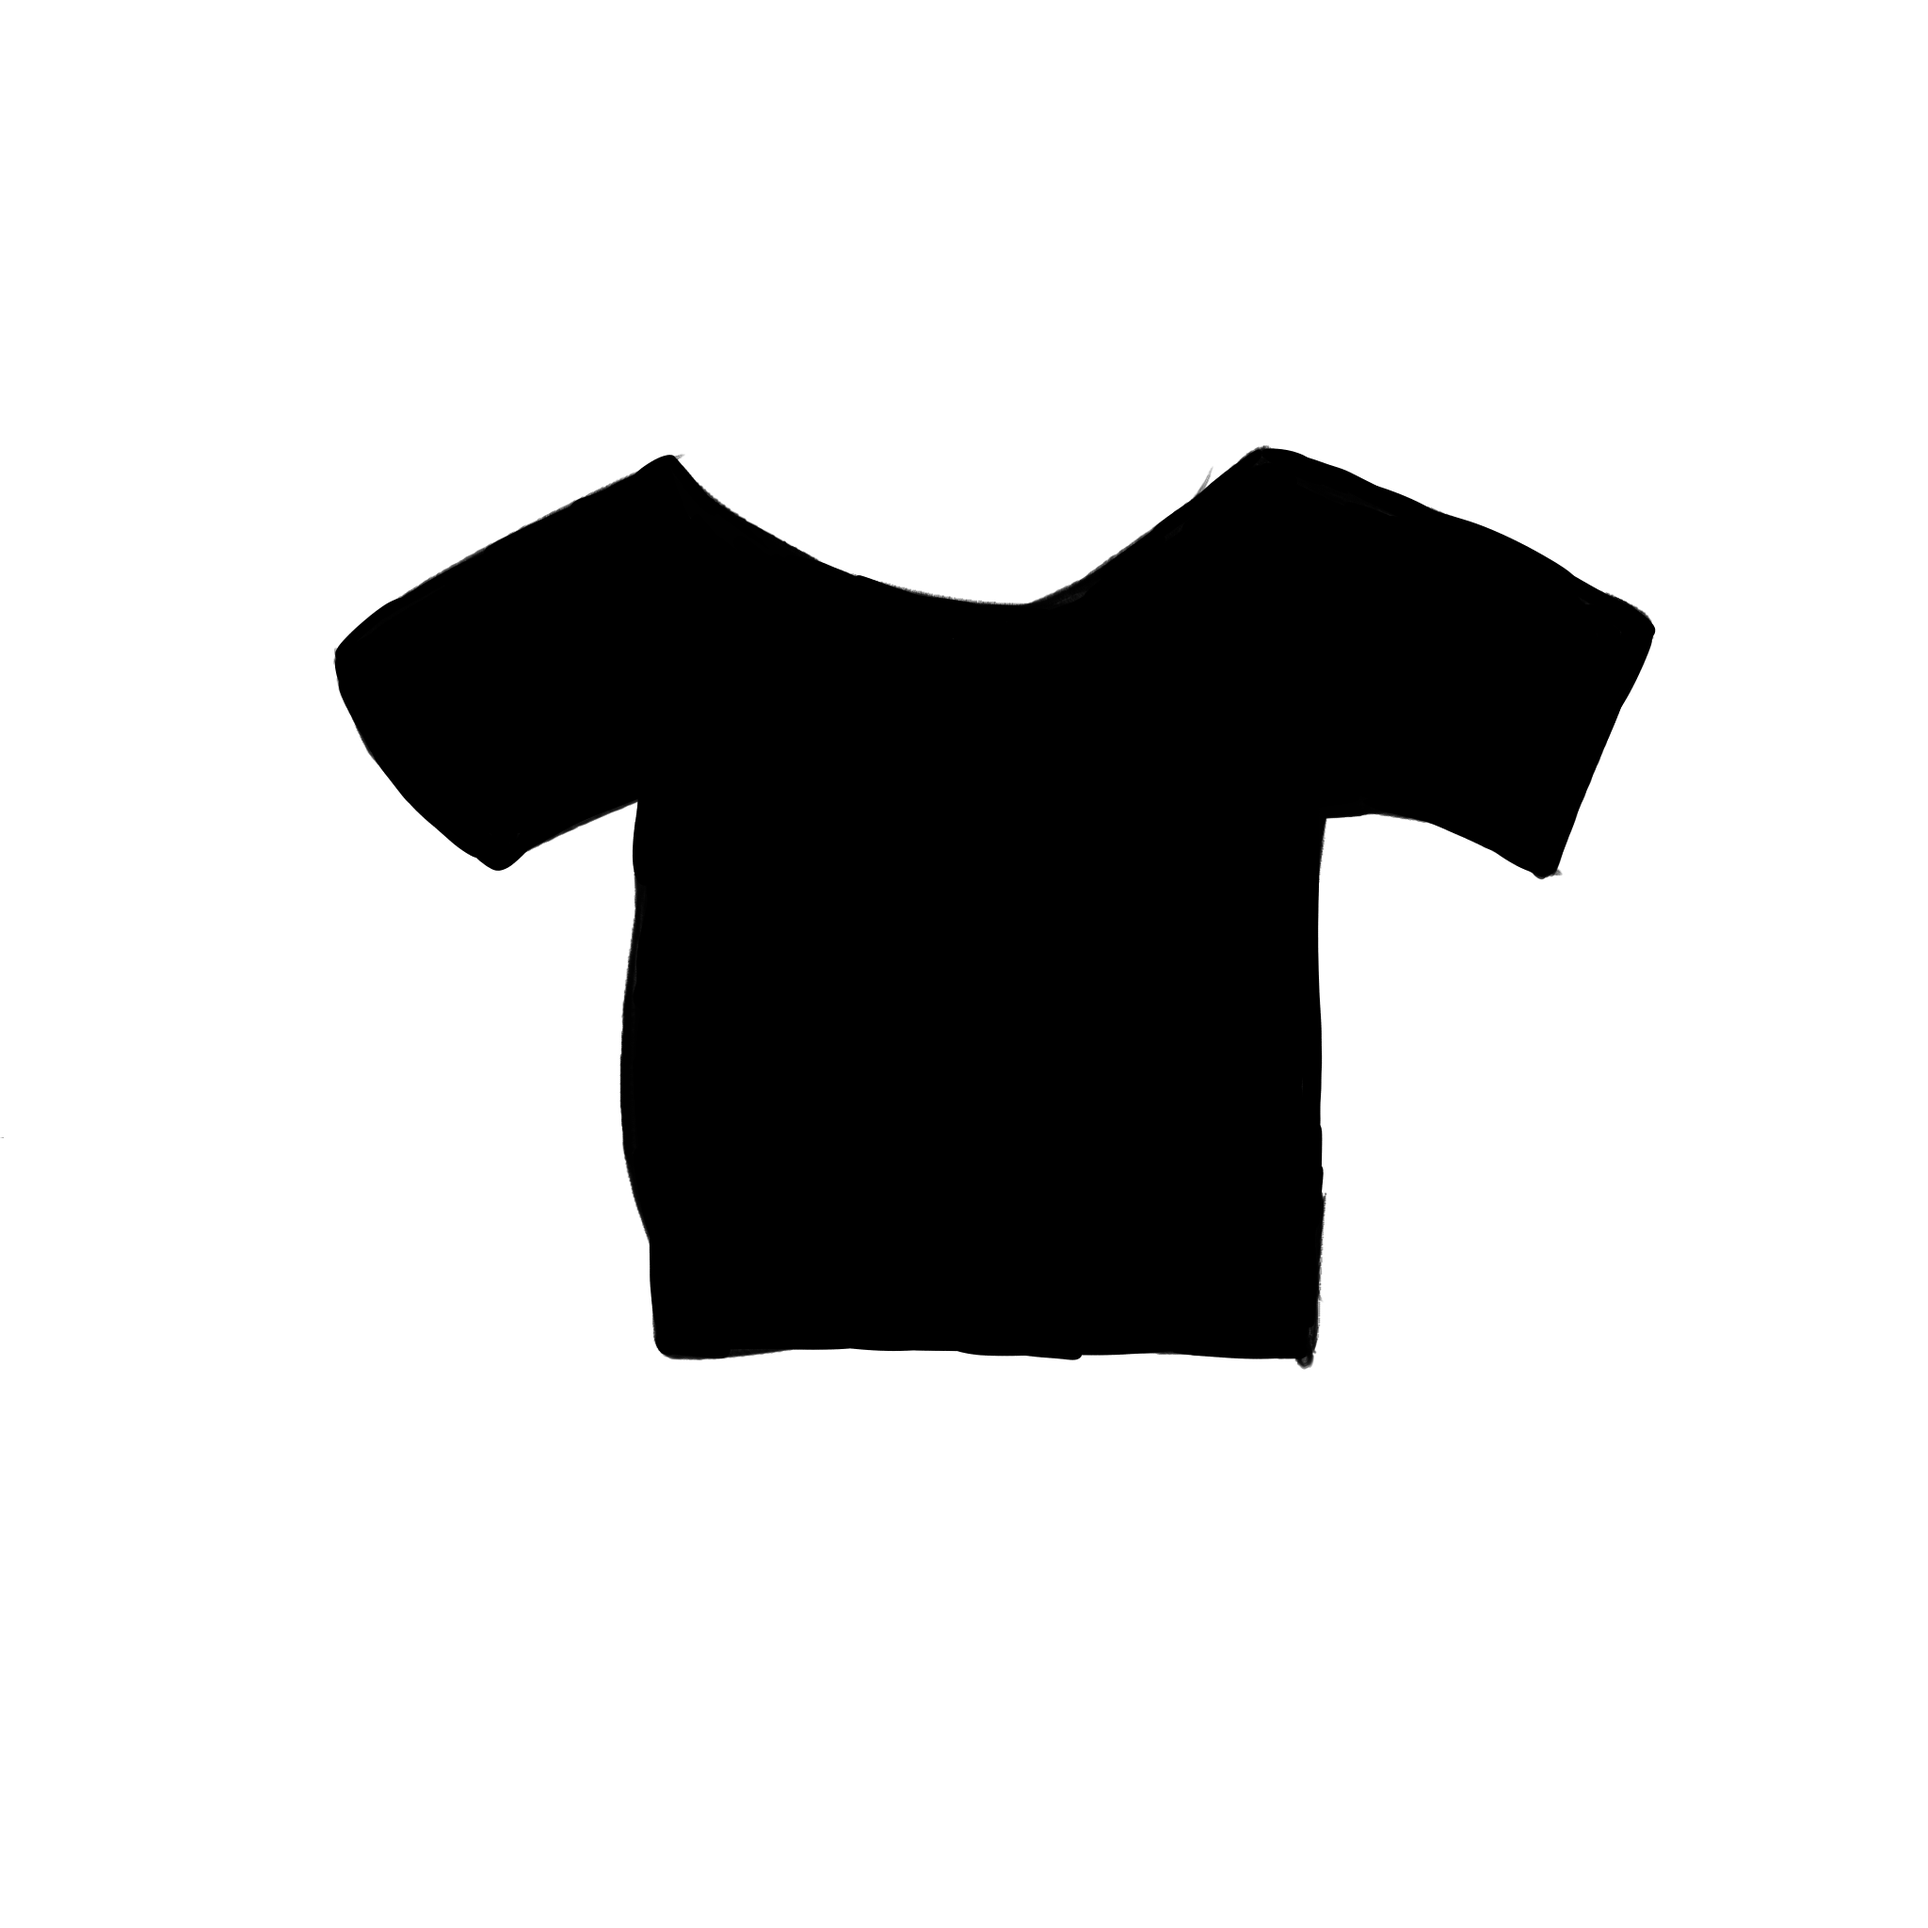
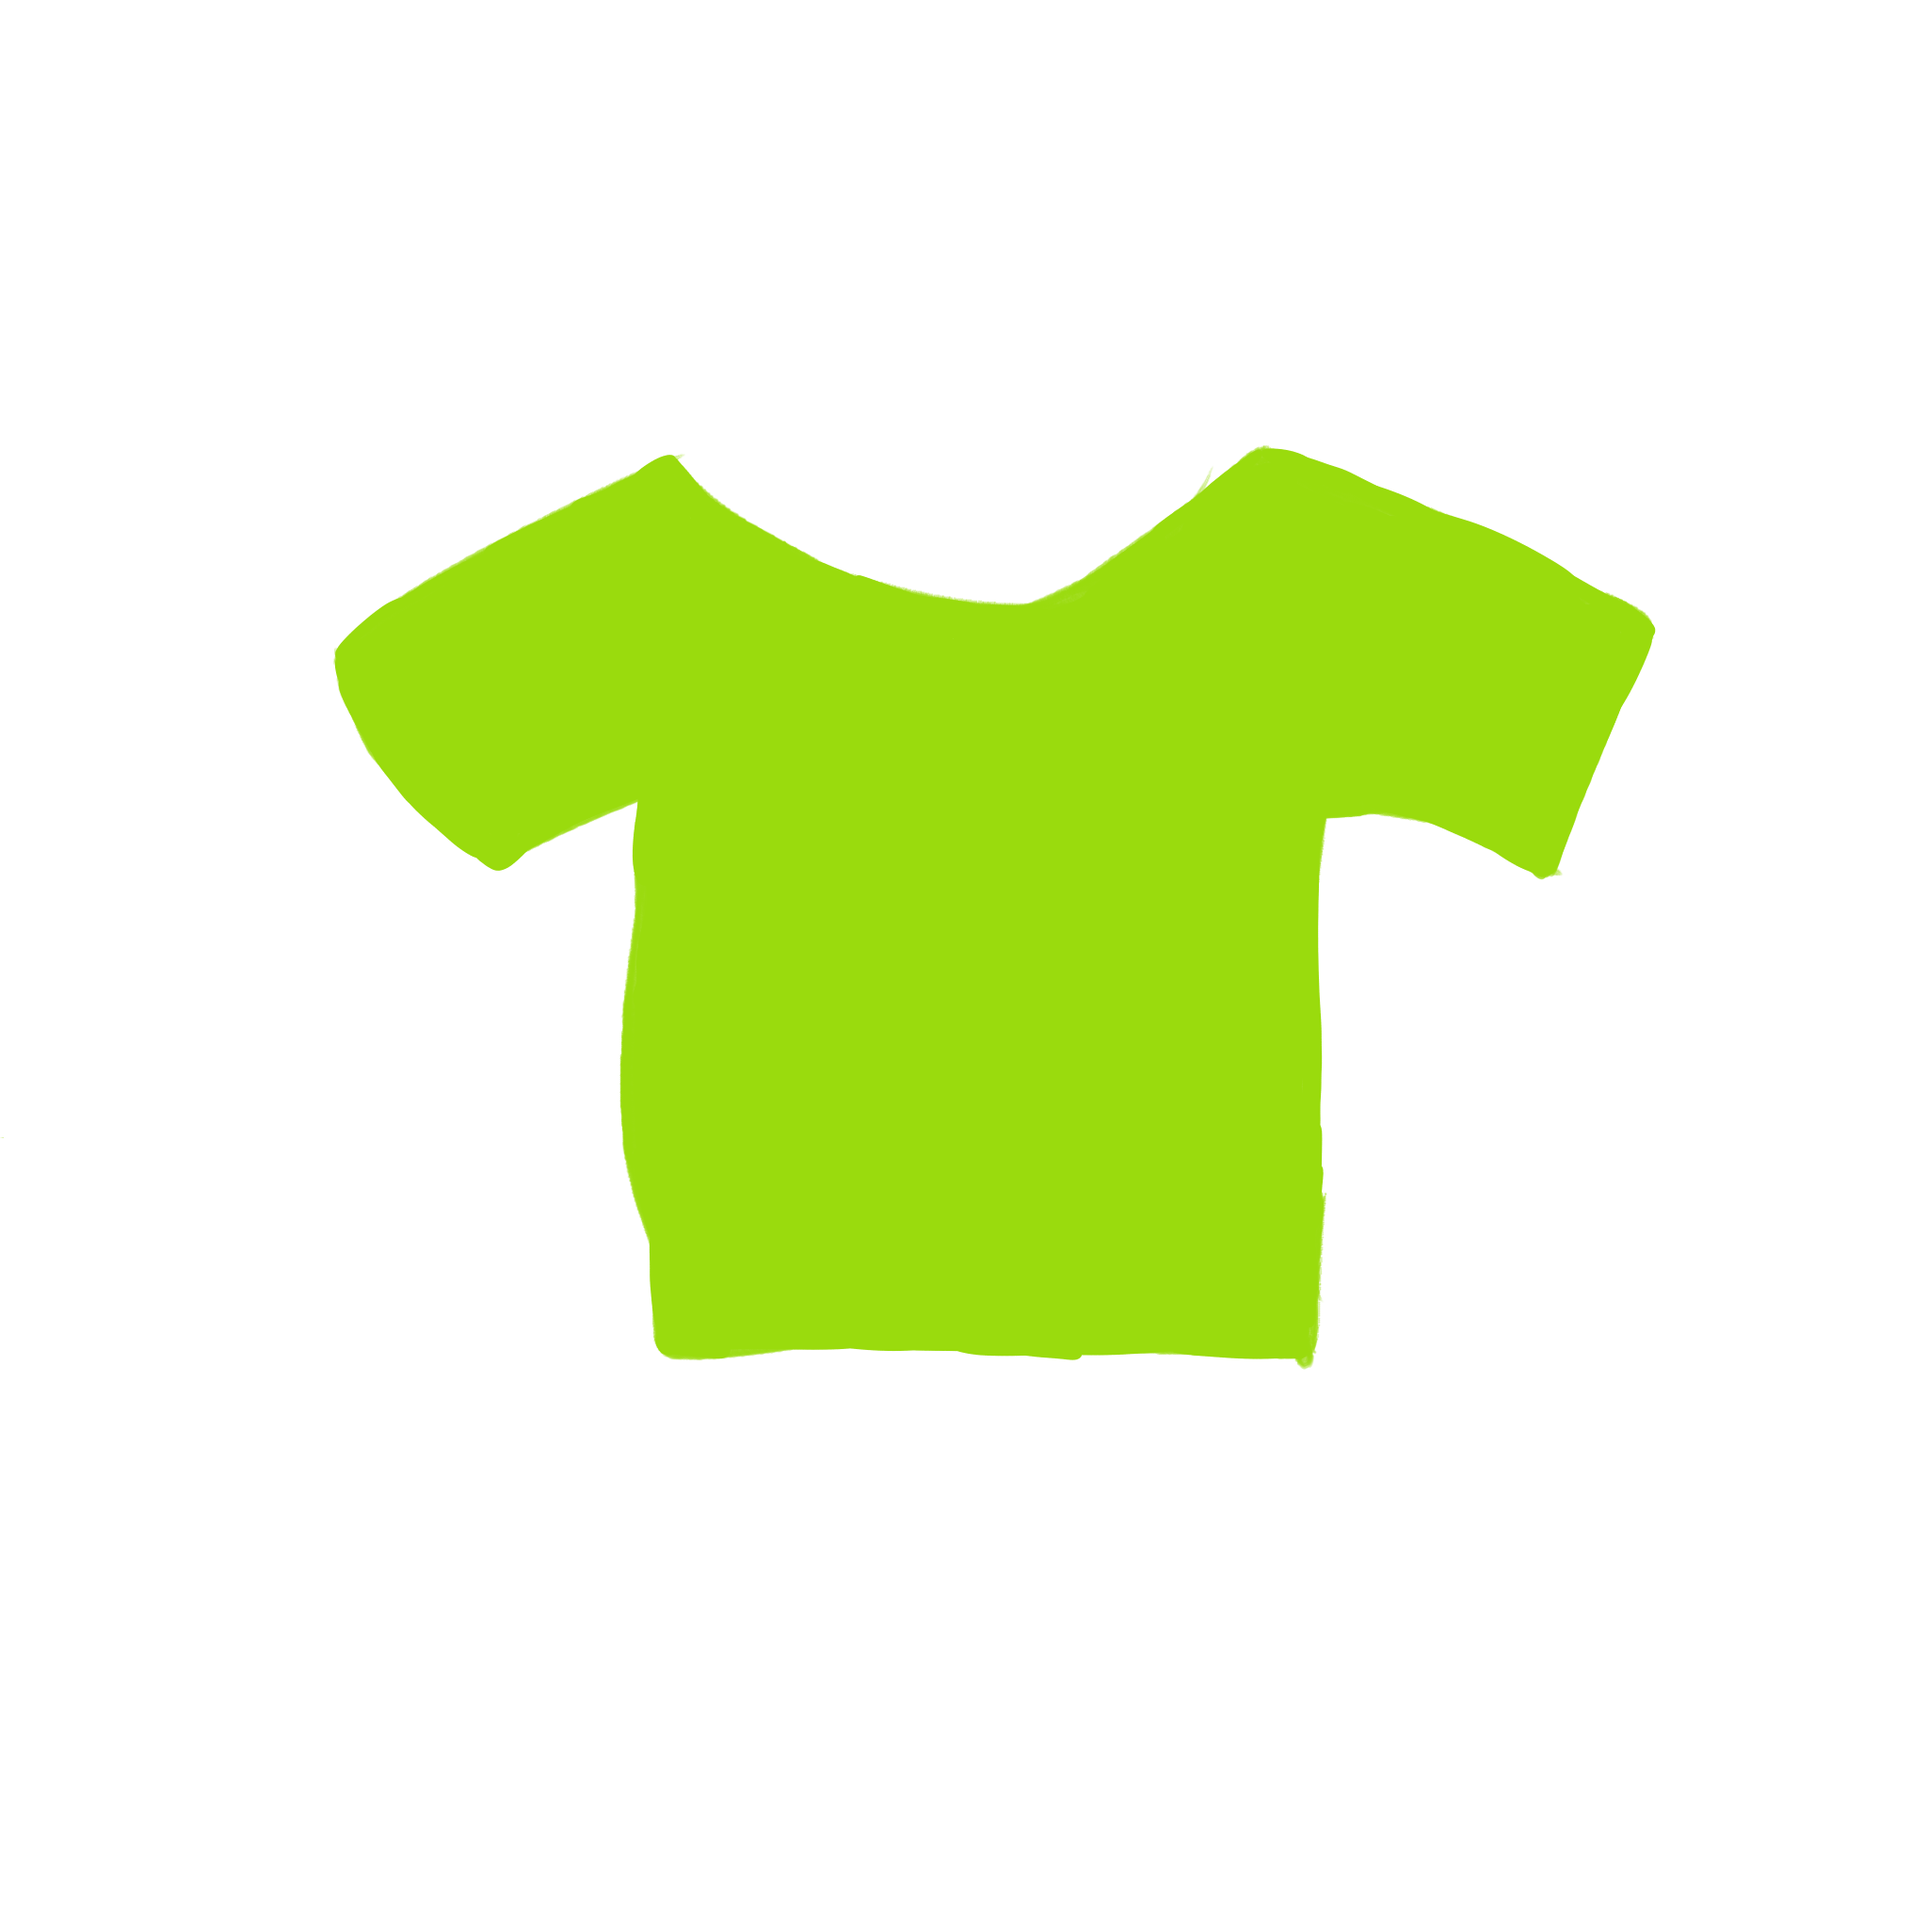
ImageChanger Test

Changed region(s): [[0.1562, 0.2188, 0.875, 0.7188]]

diff --git a/image_changer.js b/image_changer.js
@@ -26,9 +26,9 @@ fs.readFile(__dirname + '/huku.PNG', function (err, data) {
     for (var y = 0; y < imagedata.height; y++) {
         for (var x = 0; x < imagedata.width; x++) {
             var index = (y * imagedata.width + x) * 4;
-            imagedata.data[index] = imagedata.data[index]; // R
-            imagedata.data[index + 1] = imagedata.data[index]; // G
-            imagedata.data[index + 2] = imagedata.data[index]; // B
+            imagedata.data[index] = 154;
+            imagedata.data[index + 1] = 219;
+            imagedata.data[index + 2] = 13;
             // imagedata.data[index+3]; // alpha
         }
     }
